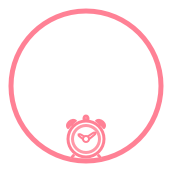
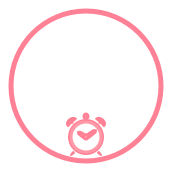
1.added delete route button 2.updated alarm design

Changed region(s): [[0.3757, 0.6358, 0.6358, 0.9249]]

diff --git a/munibuzz2/RoutesViewController.m b/munibuzz2/RoutesViewController.m
@@ -40,6 +40,7 @@ BOOL repeating;
 #endif
 UIBarButtonItem *doneButton;
 BOOL selected;
+NSString *DELETEROUTE = @"                    Delete Route";
 @implementation RoutesViewController
 @synthesize tripArray;
 @synthesize startCell;
@@ -69,11 +70,15 @@ BOOL selected;
 {
     [super viewDidLoad];
 
+    NSArray *subArray3 = nil;
     if (isEdit == TRUE) {
         // edit existing trip
         filename = [NSString stringWithFormat:@"data%d.model",currentTrip];
         data = [Data getData:filename];
         isEdit = FALSE;
+        subArray3 = [NSArray arrayWithObjects:
+                              [Trip tripId:DELETEROUTE desc:@""],
+                              nil];
     } else {
         // new trip
         currentTrip = totalTrip;
@@ -98,7 +103,7 @@ BOOL selected;
 #endif
                  nil];
     
-    tripArray = [NSArray arrayWithObjects:subArray1,subArray2,nil];
+    tripArray = [NSArray arrayWithObjects:subArray1,subArray2,subArray3,nil];
 
 #ifdef USEDEFAULT
     if ([data.useDefault isEqual:@"NO"]) {
@@ -194,6 +199,8 @@ BOOL selected;
         repeatCell = cell;
         cell.accessoryType =  UITableViewCellAccessoryDisclosureIndicator;
 #endif
+    } else if ([trip.name isEqual:DELETEROUTE]) {
+        cell.textLabel.textColor = [UIColor redColor];
     }
 
     return cell;
@@ -346,6 +353,9 @@ didSelectRowAtIndexPath:(NSIndexPath *)indexPath
         [UIView commitAnimations];
         self.navigationItem.rightBarButtonItem = doneButton;
 #endif
+    } else if ([trip.name isEqual:DELETEROUTE]) {
+        [Data removeData:currentTrip];
+        [self.navigationController popViewControllerAnimated:YES];
     }
 
 }
